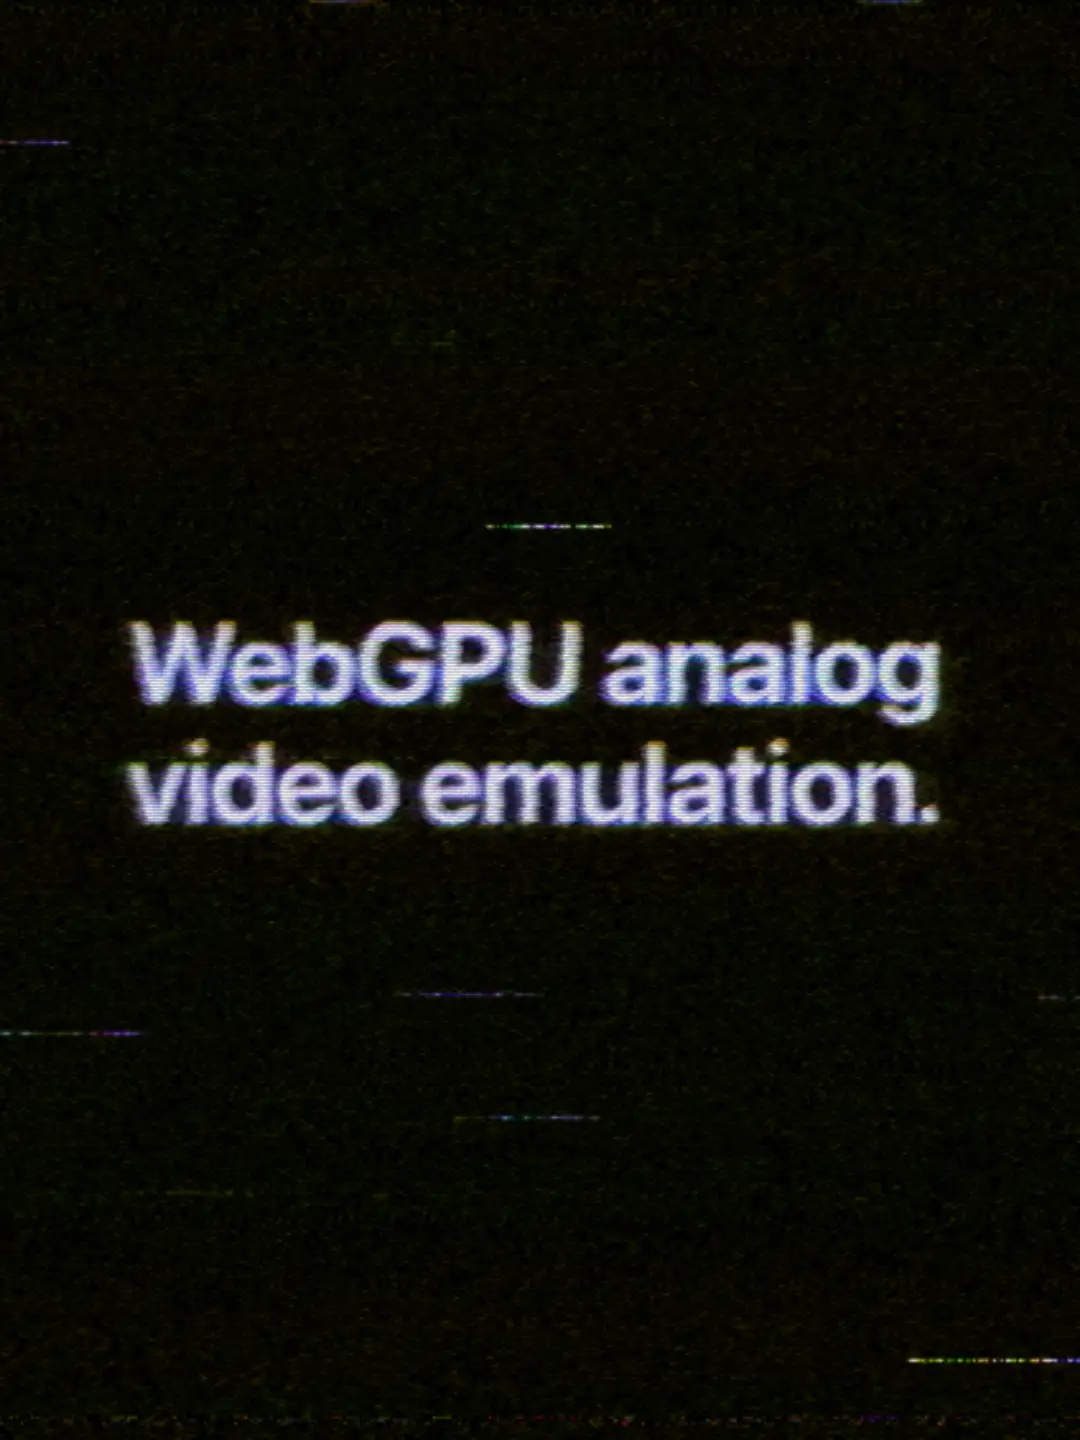
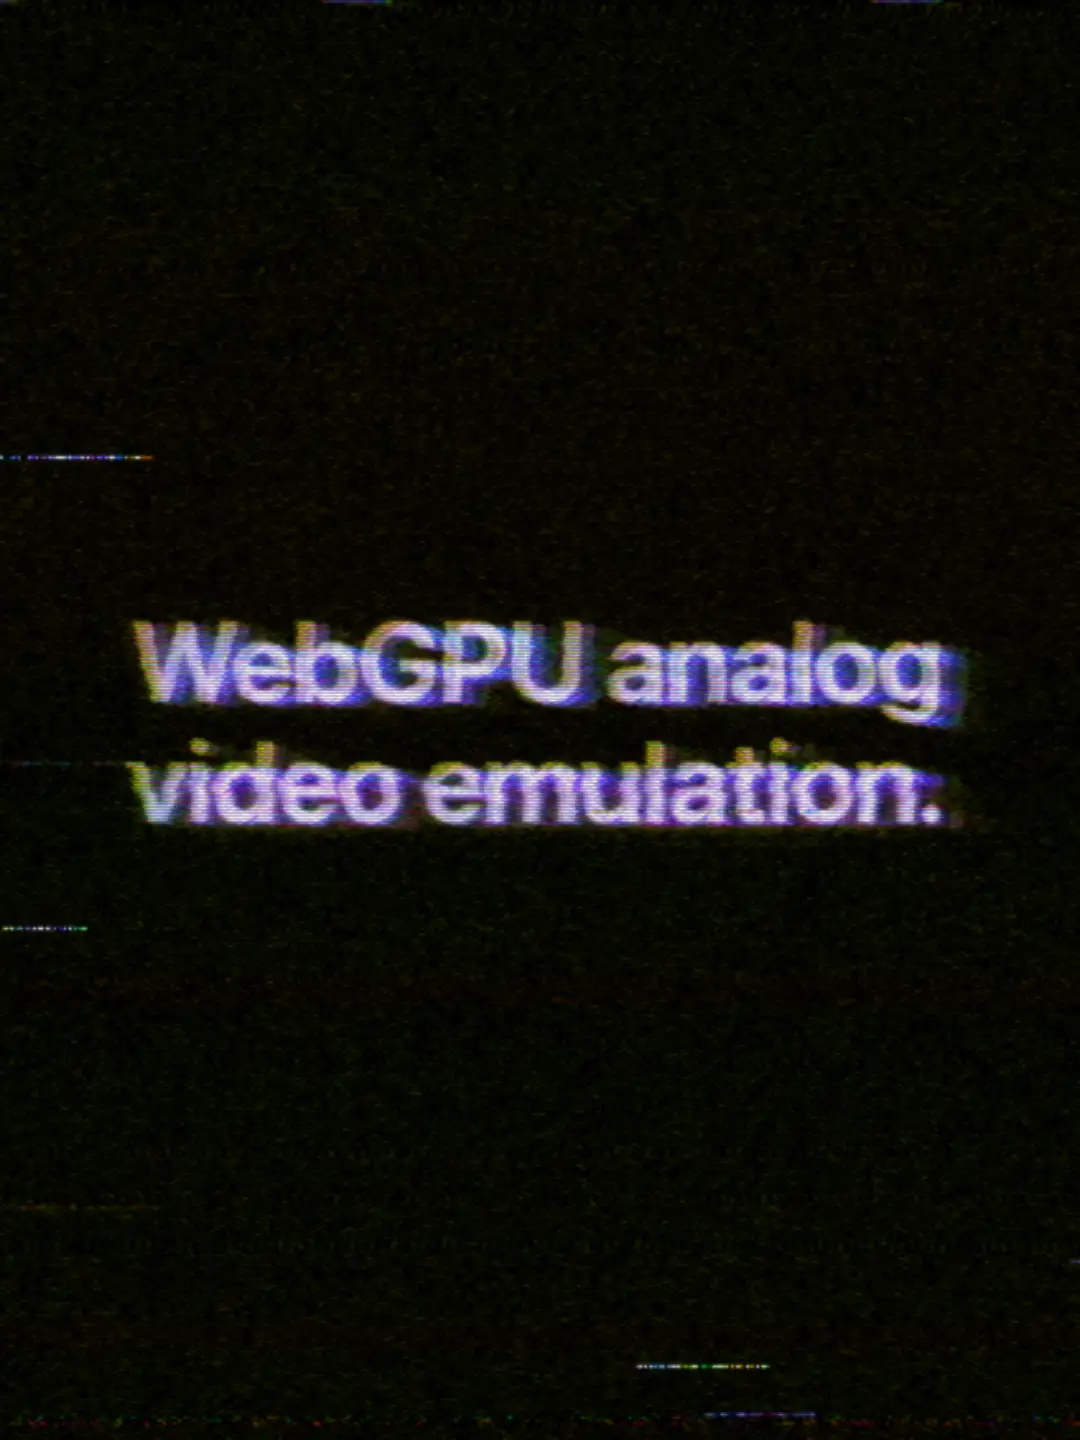
feat(ui): the link preview is the same picture, mark and all
The card is one plate now. The skillet and the wordmark are drawn beside
the headline and go down the same path, so the icon's colours are what
the decoder made of them and the wordmark carries the fringe the words
above it carry. Nothing is composited afterwards.

That took `ogimage.mjs` with it. It existed to lay display type over a
demo still, and there is no type left to lay and no still to lay it on:
`heroplate.mjs` writes public/og.jpg itself, centre-anchored because this
crop is composed rather than salvaged, and picks its quality off the
extension — webp can be pushed hard on grain, jpeg at the same number
turns the fringing into blocks.

Colour had to be argued for twice. The mark's only colour is three steam
wisps 2.4 units wide in a 32-unit box, and `vhs` runs the whole chroma
path under the luma at a 0.5 MHz demod — the right bandwidth for a face
and nowhere near enough for a stroke that thin. So the demod is opened to
0.9, the colour-under mix comes down, and the mark is drawn half as big
again as the wordmark's cap height. The headline's own fringing is
crisper for it.

Claude-Session: https://claude.ai/code/session_011Ak9fdHyL2WptwN9ExYLet

diff --git a/docs/DEVELOPMENT.md b/docs/DEVELOPMENT.md
@@ -680,12 +680,16 @@ pnpm demos                       # rewrite the README's generated demo bullets
 pnpm demos:check                 # fail if the checked-in copy is stale
 ```
 
-[`../demos.json`](../demos.json) is the looks — the README's bullets, the still
-behind the title, and the gallery of cards, each opening the exact board its
-clip is a recording of. Entries carry flags: `hero` is the one the header shows,
-which [`../scripts/ogimage.mjs`](../scripts/ogimage.mjs) grounds the link
-preview in too; `showcase` is the ones the carousel may play; `gallery` is
-whether it gets a card; `says` is the clause under the name.
+[`../demos.json`](../demos.json) is the looks — the README's bullets and the
+gallery of cards, each opening the exact board its clip is a recording of.
+Entries carry flags: `showcase` is the ones the carousel may play; `gallery` is
+whether it gets a card; `says` is the clause under the name. The header and the
+link preview are no demo's still any more:
+[`../scripts/heroplate.mjs`](../scripts/heroplate.mjs) sets the headline in the
+h1's own typeface, photographs it, runs the plate through the app and reads the
+canvas back, so the words on the page are a picture of what the program does to
+words. The link-preview card is the same render with the mark and the wordmark
+drawn onto the plate beside them, which is why they carry the same fringe.
 [`../scripts/reel.mjs`](../scripts/reel.mjs) is the carousel, which records the
 **app's own window** instead — the panel, the map and a pointer moving over
 them. That split is the point of the page: the picture is what the program
